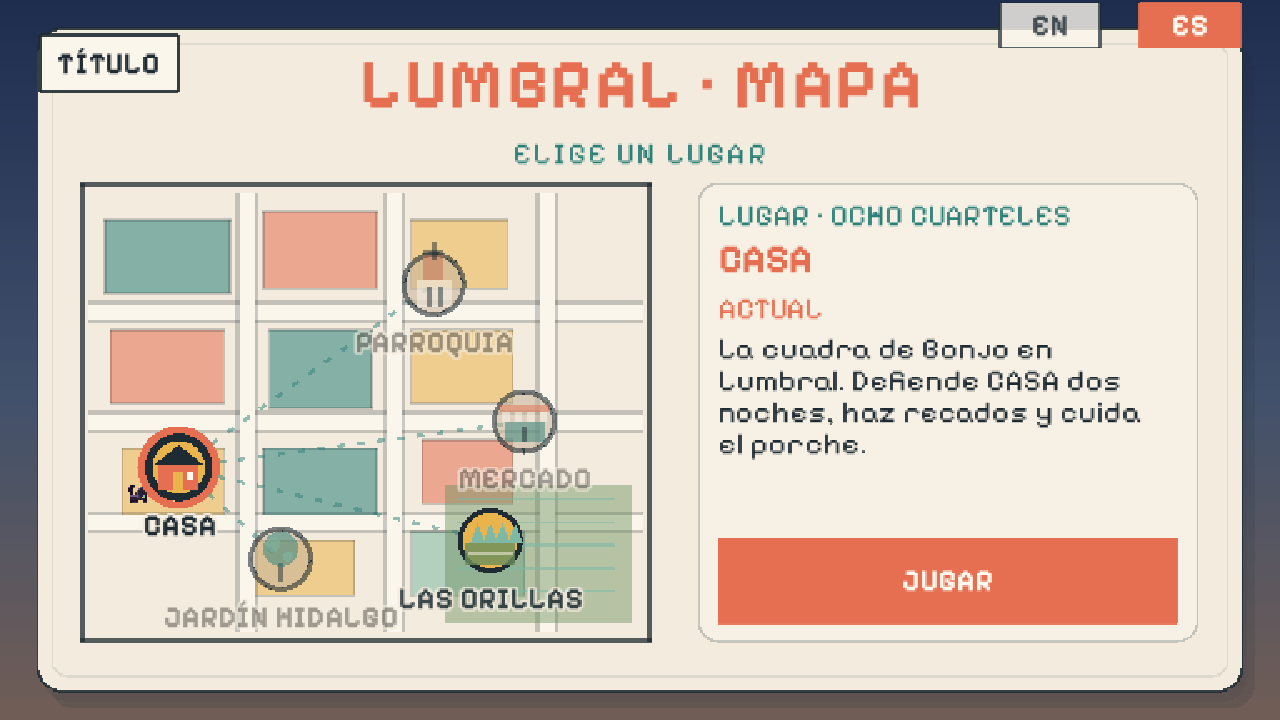
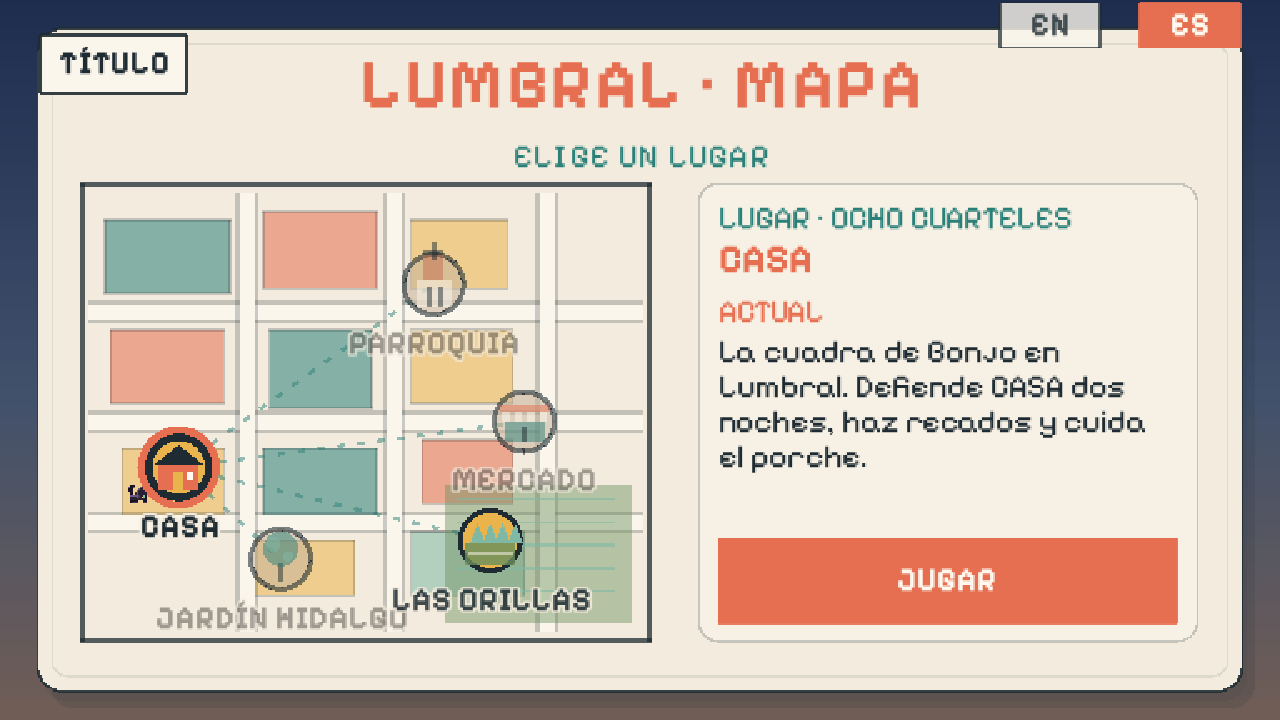
Remove Guanajuato and enlarge menu copy

diff --git a/src/i18n.js b/src/i18n.js
@@ -10,7 +10,7 @@ const SUPPORTED = ['en', 'es'];
 const strings = {
   en: {
     'title.subtitle': 'the guardian chow of Lumbral',
-    'title.place': 'LUMBRAL · GUANAJUATO',
+    'title.place': 'LUMBRAL · BAJÍO',
     'title.startKeyboard': 'PRESS SPACE · PLAY',
     'title.startTouch': 'TAP · PLAY',
     'title.controls': 'A/D move · SPACE jump/flap · S slide · E spin · F talk · T tuning',
@@ -200,7 +200,7 @@ const strings = {
   },
   es: {
     'title.subtitle': 'el chow guardián de Lumbral',
-    'title.place': 'LUMBRAL · GUANAJUATO',
+    'title.place': 'LUMBRAL · BAJÍO',
     'title.startKeyboard': 'PULSA ESPACIO · JUGAR',
     'title.startTouch': 'TOCA · JUGAR',
     'title.controls': 'A/D mover · ESPACIO salto/aleteo · S deslizar · E giro · F hablar · T ajustes',

diff --git a/src/ui/FolkCard.js b/src/ui/FolkCard.js
@@ -49,12 +49,12 @@ export const FONT =
   '"Pixelify Sans", "Trebuchet MS", "Segoe UI", Arial, sans-serif';
 
 // Menu type uses a compact three-step role scale: display, heading and body.
-// The mobile body floor is 18 px internally, which lands at roughly 16 CSS px
-// on a 390 px-tall landscape phone.
+// The mobile body floor is 19.5 px internally, which lands at roughly 17.5 CSS
+// px on a 390 px-tall landscape phone.
 export const MENU_TEXT = {
   display: 14 * SCALE,
   heading: 8 * SCALE,
-  body: 6 * SCALE,
+  body: 6.5 * SCALE,
 };
 
 // In-game type uses the same role logic at a slightly tighter display size.

diff --git a/README.md b/README.md
@@ -1,7 +1,7 @@
 # Bonjo 🐕
 
 **Bonjo is the guardian chow of Lumbral.** A proud, fluffy black chow who likes
-his walks through the Bajío town of Lumbral, Guanajuato — and does not appreciate
+his walks through the Bajío town of Lumbral — and does not appreciate
 the neighbor dogs from other houses trying to take his turf.
 
 A **turf-defense survival platformer**: by day, scavenge the barrio for bones
@@ -33,7 +33,7 @@ The game itself now starts in Spanish.
 
 ## The world
 
-- **Setting:** **Lumbral, Guanajuato**, in the Bajío. Level 1, **La Cuadra**,
+- **Setting:** **Lumbral**, in the Bajío. Level 1, **La Cuadra**,
   is Bonjo's home block: flat-roofed houses, the unfinished single bell tower of
   Santa María de Guadalupe, warm string lights, adobe walls and terracotta roofs
   under a clear blue day sky. The garbanzo and blue-green agave fields at the
@@ -290,7 +290,7 @@ there to make them permanent.
 - **3× internal render resolution** for crisper pixel art without changing the screen layout
 - All art generated in code (no image/audio files)
 - Keyboard + on-screen touch controls, portrait guard
-- **Spanish by default** (Lumbral, Guanajuato); toggle **EN / ES** on the title or map, or press **L**. The choice is remembered.
+- **Spanish by default**; toggle **EN / ES** on the title or map, or press **L**. The choice is remembered.
 - Title, top-dog finale, win and game-over screens
 
 **Not in this build:** full menu systems, save slots, gamepad, base upgrades,

diff --git a/DESIGN.md b/DESIGN.md
@@ -37,7 +37,7 @@ same route, the same corners, the same smells. He likes his walks. The town name
 blends *lumbre* (hearth-light) and *umbral* (threshold): the warm light Bonjo
 keeps burning at the edge of home.
 
-**Lumbral, Guanajuato** is the town at the center of the game: a low, warm Bajío
+**Lumbral** is the town at the center of the game: a low, warm Bajío
 settlement of rectilinear streets, adobe and cantera, a single unfinished bell
 tower, agricultural fields and strings of warm lights. Bonjo's **La Cuadra** is
 its home block: flat-roofed houses, a tienda awning, dogs behind every gate.
@@ -594,8 +594,8 @@ Rules:
   button fills or near-matching colors.
   Menus use three role-based sizes from `MENU_TEXT` in `ui/FolkCard.js`:
   `display` (`14 × SCALE`, 42 px), `heading` (`8 × SCALE`, 24 px) and
-  `body` (`6 × SCALE`, 18 px). The body size is the mobile floor: at a
-  390 px-tall landscape phone it resolves to about 16 CSS px, matching the
+  `body` (`6.5 × SCALE`, 19.5 px). The body size is the mobile floor: at a
+  390 px-tall landscape phone it resolves to about 17.5 CSS px, matching the
   common mobile minimum. Hierarchy comes from weight, color and spacing, not
   additional one-off sizes.
   In-world building signs can remain `4.5 × SCALE` because they are framed by
